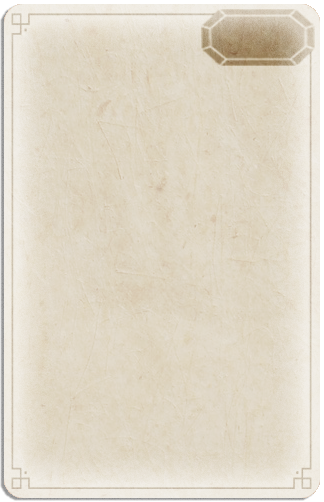
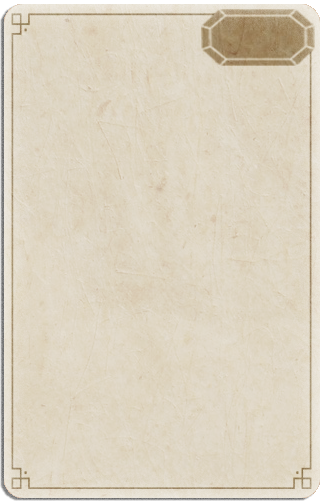
Fixed up building card glow and fixed up script layout

Changed region(s): [[0.0, 0.0, 0.9877, 1.0]]

diff --git a/Assets/Scripts/UI/BuildingSelect.cs b/Assets/Scripts/UI/BuildingSelect.cs
@@ -6,101 +6,105 @@ using UnityEngine.EventSystems;
 using UnityEngine.UI;
 using static GameManager;
 
-public class BuildingSelect : UiUpdater, IPointerEnterHandler, IPointerExitHandler
+namespace UI
 {
-    public const int Deselected = -1;
-    public int position;
-    public GameObject buildingPrefab;
-    public TextMeshProUGUI title;
-    public Image icon;
-    public Image iconTexture;
-    public TextMeshProUGUI cost;
-    public Toggle toggle;
-    public CanvasGroup canvasGroup;
-    [SerializeField] private Ease tweenEase;
-    [SerializeField] private BuildingSelect[] siblingCards;
-    [SerializeField] private Image CardBack;
-    [SerializeField] private Texture2D UnselectedBacking;
-    [SerializeField] private Texture2D SelectedBacking;
-
-    private Vector3 _initialPosition;
-    private RectTransform _rectTransform;
-    
-    private Sprite UnselectedBackingSprite;
-    private Sprite SelectedBackingSprite;
-    
-    private bool _selected = false;
-
-    private void Start()
+    public class BuildingSelect : UiUpdater, IPointerEnterHandler, IPointerExitHandler
     {
-        _rectTransform = GetComponent<RectTransform>();
-        _initialPosition = _rectTransform.localPosition;
+        private const int Deselected = -1;
         
-        UnselectedBackingSprite = Sprite.Create(
-            UnselectedBacking, new Rect(0, 0, UnselectedBacking.width, UnselectedBacking.height), 
-            new Vector2(0.5f, 0.5f));
-        SelectedBackingSprite = Sprite.Create(
-            SelectedBacking, new Rect(0, 0, SelectedBacking.width, SelectedBacking.height), 
-            new Vector2(0.5f, 0.5f));
-    }
+        public int position;
+        public GameObject buildingPrefab;
+        public TextMeshProUGUI title;
+        public Image icon;
+        public Image iconTexture;
+        public TextMeshProUGUI cost;
+        public Toggle toggle;
+        
+        [SerializeField] private Ease tweenEase;
+        [SerializeField] private BuildingSelect[] siblingCards;
+        [SerializeField] private Image cardBack;
+        [SerializeField] private Texture2D unselectedBacking;
+        [SerializeField] private Texture2D selectedBacking;
 
-    public override void UpdateUi()
-    {
-        BuildingStats building = buildingPrefab.GetComponent<BuildingStats>();
-        Color colour = building.IconColour;
-        title.text = building.name;
-        title.color = colour;
-        cost.text = building.ScaledCost.ToString();
-        icon.sprite = building.icon;
-        iconTexture.color = colour;
-        bool active = building.ScaledCost <= Manager.Wealth;
-        if (toggle.isOn && !active)
+        private Vector3 _initialPosition;
+        private RectTransform _rectTransform;
+    
+        private Sprite _unselectedBackingSprite;
+        private Sprite _selectedBackingSprite;
+    
+        private bool _selected;
+
+        private void Start()
         {
-            toggle.isOn = false;
-            PlacementManager.Selected = Deselected;
+            _rectTransform = GetComponent<RectTransform>();
+            _initialPosition = _rectTransform.localPosition;
+        
+            _unselectedBackingSprite = Sprite.Create(
+                unselectedBacking, new Rect(0, 0, unselectedBacking.width, unselectedBacking.height), 
+                new Vector2(0.5f, 0.5f));
+            _selectedBackingSprite = Sprite.Create(
+                selectedBacking, new Rect(0, 0, selectedBacking.width, selectedBacking.height), 
+                new Vector2(0.5f, 0.5f));
         }
-        bool interactable = IsInteractable(building);
-        toggle.interactable = interactable;
-        CardBack.color = interactable ? Color.white : new Color(0.8f, 0.8f, 0.8f, 1.0f);
-    }
+
+        public override void UpdateUi()
+        {
+            BuildingStats building = buildingPrefab.GetComponent<BuildingStats>();
+            Color colour = building.IconColour;
+            title.text = building.name;
+            title.color = colour;
+            cost.text = building.ScaledCost.ToString();
+            icon.sprite = building.icon;
+            iconTexture.color = colour;
+            bool active = building.ScaledCost <= Manager.Wealth;
+            if (toggle.isOn && !active)
+            {
+                toggle.isOn = false;
+                PlacementManager.Selected = Deselected;
+            }
+            bool interactable = IsInteractable(building);
+            toggle.interactable = interactable;
+            cardBack.color = interactable ? Color.white : new Color(0.8f, 0.8f, 0.8f, 1.0f);
+        }
     
-    private bool IsInteractable(BuildingStats building)
-    {
-        return building.ScaledCost <= Manager.Wealth;
-    }
+        private bool IsInteractable(BuildingStats building)
+        {
+            return building.ScaledCost <= Manager.Wealth;
+        }
 
-    public void ToggleSelect()
-    {
-        PlacementManager.Selected = toggle.isOn ? position : Deselected;
-    }
+        public void ToggleSelect()
+        {
+            PlacementManager.Selected = toggle.isOn ? position : Deselected;
+        }
 
-    public void OnPointerEnter(PointerEventData eventData)
-    {
-        _rectTransform.DOLocalMove(_initialPosition + _rectTransform.transform.up * 60, 0.5f)
-            .SetEase(tweenEase);
-        _rectTransform.DOScale(new Vector3(1.1f, 1.1f), 0.5f).SetEase(tweenEase);
-    }
+        public void OnPointerEnter(PointerEventData eventData)
+        {
+            _rectTransform.DOLocalMove(_initialPosition + _rectTransform.transform.up * 60, 0.5f)
+                .SetEase(tweenEase);
+            _rectTransform.DOScale(new Vector3(1.1f, 1.1f), 0.5f).SetEase(tweenEase);
+        }
 
-    public void OnPointerExit(PointerEventData eventData)
-    {
-        if (_selected) return;
-        _rectTransform.DOLocalMove(_initialPosition, 0.5f).SetEase(tweenEase);
-        _rectTransform.DOScale(Vector3.one, 0.5f).SetEase(tweenEase);
-    }
+        public void OnPointerExit(PointerEventData eventData)
+        {
+            if (_selected) return;
+            _rectTransform.DOLocalMove(_initialPosition, 0.5f).SetEase(tweenEase);
+            _rectTransform.DOScale(Vector3.one, 0.5f).SetEase(tweenEase);
+        }
 
-    public void OnClicked()
-    {
-        if (!IsInteractable(buildingPrefab.GetComponent<BuildingStats>())) return;
-        _selected = !_selected;
-        OnPointerEnter(null);
-        Array.ForEach(siblingCards, card => card.Deselect());
-        CardBack.sprite = _selected ? SelectedBackingSprite : UnselectedBackingSprite;
-    }
+        public void OnClicked()
+        {
+            if (!IsInteractable(buildingPrefab.GetComponent<BuildingStats>())) return;
+            _selected = !_selected;
+            OnPointerEnter(null);
+            Array.ForEach(siblingCards, card => card.Deselect());
+            cardBack.sprite = _selected ? _selectedBackingSprite : _unselectedBackingSprite;
+        }
     
-    private void Deselect()
-    {
-        _selected = false;
-        OnPointerExit(null);
-        CardBack.sprite = UnselectedBackingSprite;
+        private void Deselect()
+        {
+            _selected = false;
+            OnPointerExit(null);
+            cardBack.sprite = _unselectedBackingSprite;
+        }
     }
 }

diff --git a/Assets/Scripts/Menu/BuildingHelper.cs b/Assets/Scripts/Menu/BuildingHelper.cs
@@ -3,6 +3,8 @@ using System.Collections;
 using System.Collections.Generic;
 using UnityEngine;
 using TMPro;
+using UI;
+
 public class BuildingHelper : MonoBehaviour, TooltipHelper
 {
     public TextMeshProUGUI title, description;

diff --git a/Assets/Scripts/Managers and Controllers/PlacementManager.cs b/Assets/Scripts/Managers and Controllers/PlacementManager.cs
@@ -2,6 +2,7 @@
 using System.Collections;
 using DG.Tweening;
 using Managers_and_Controllers;
+using UI;
 using UnityEngine;
 using UnityEngine.EventSystems;
 using UnityEngine.UI;
